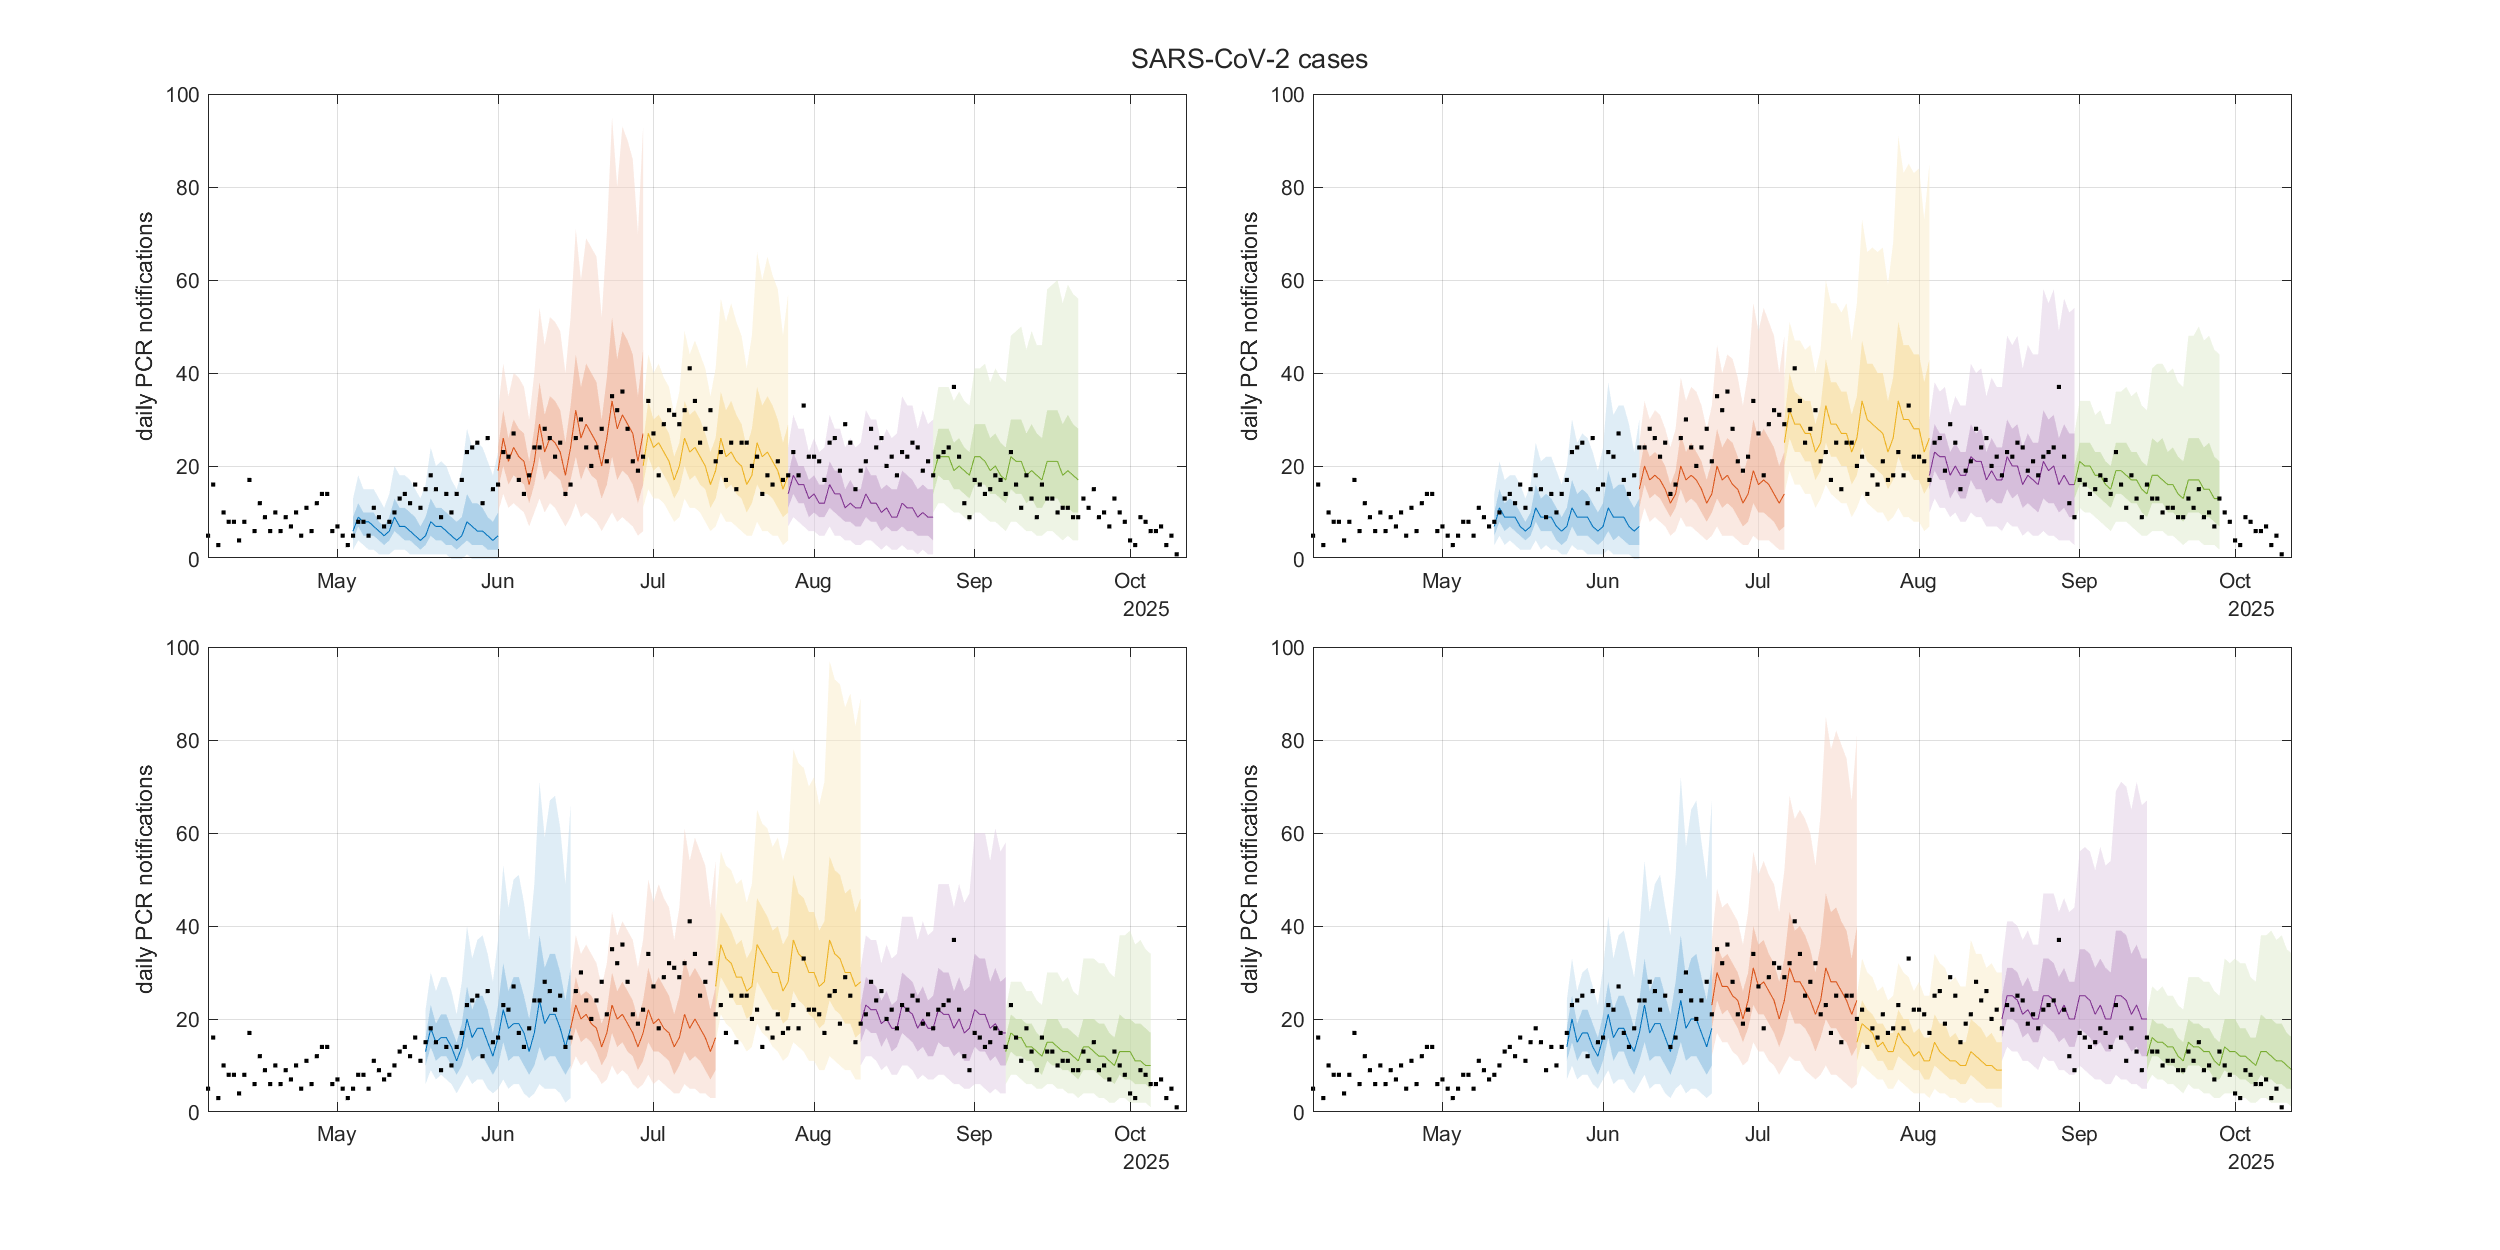
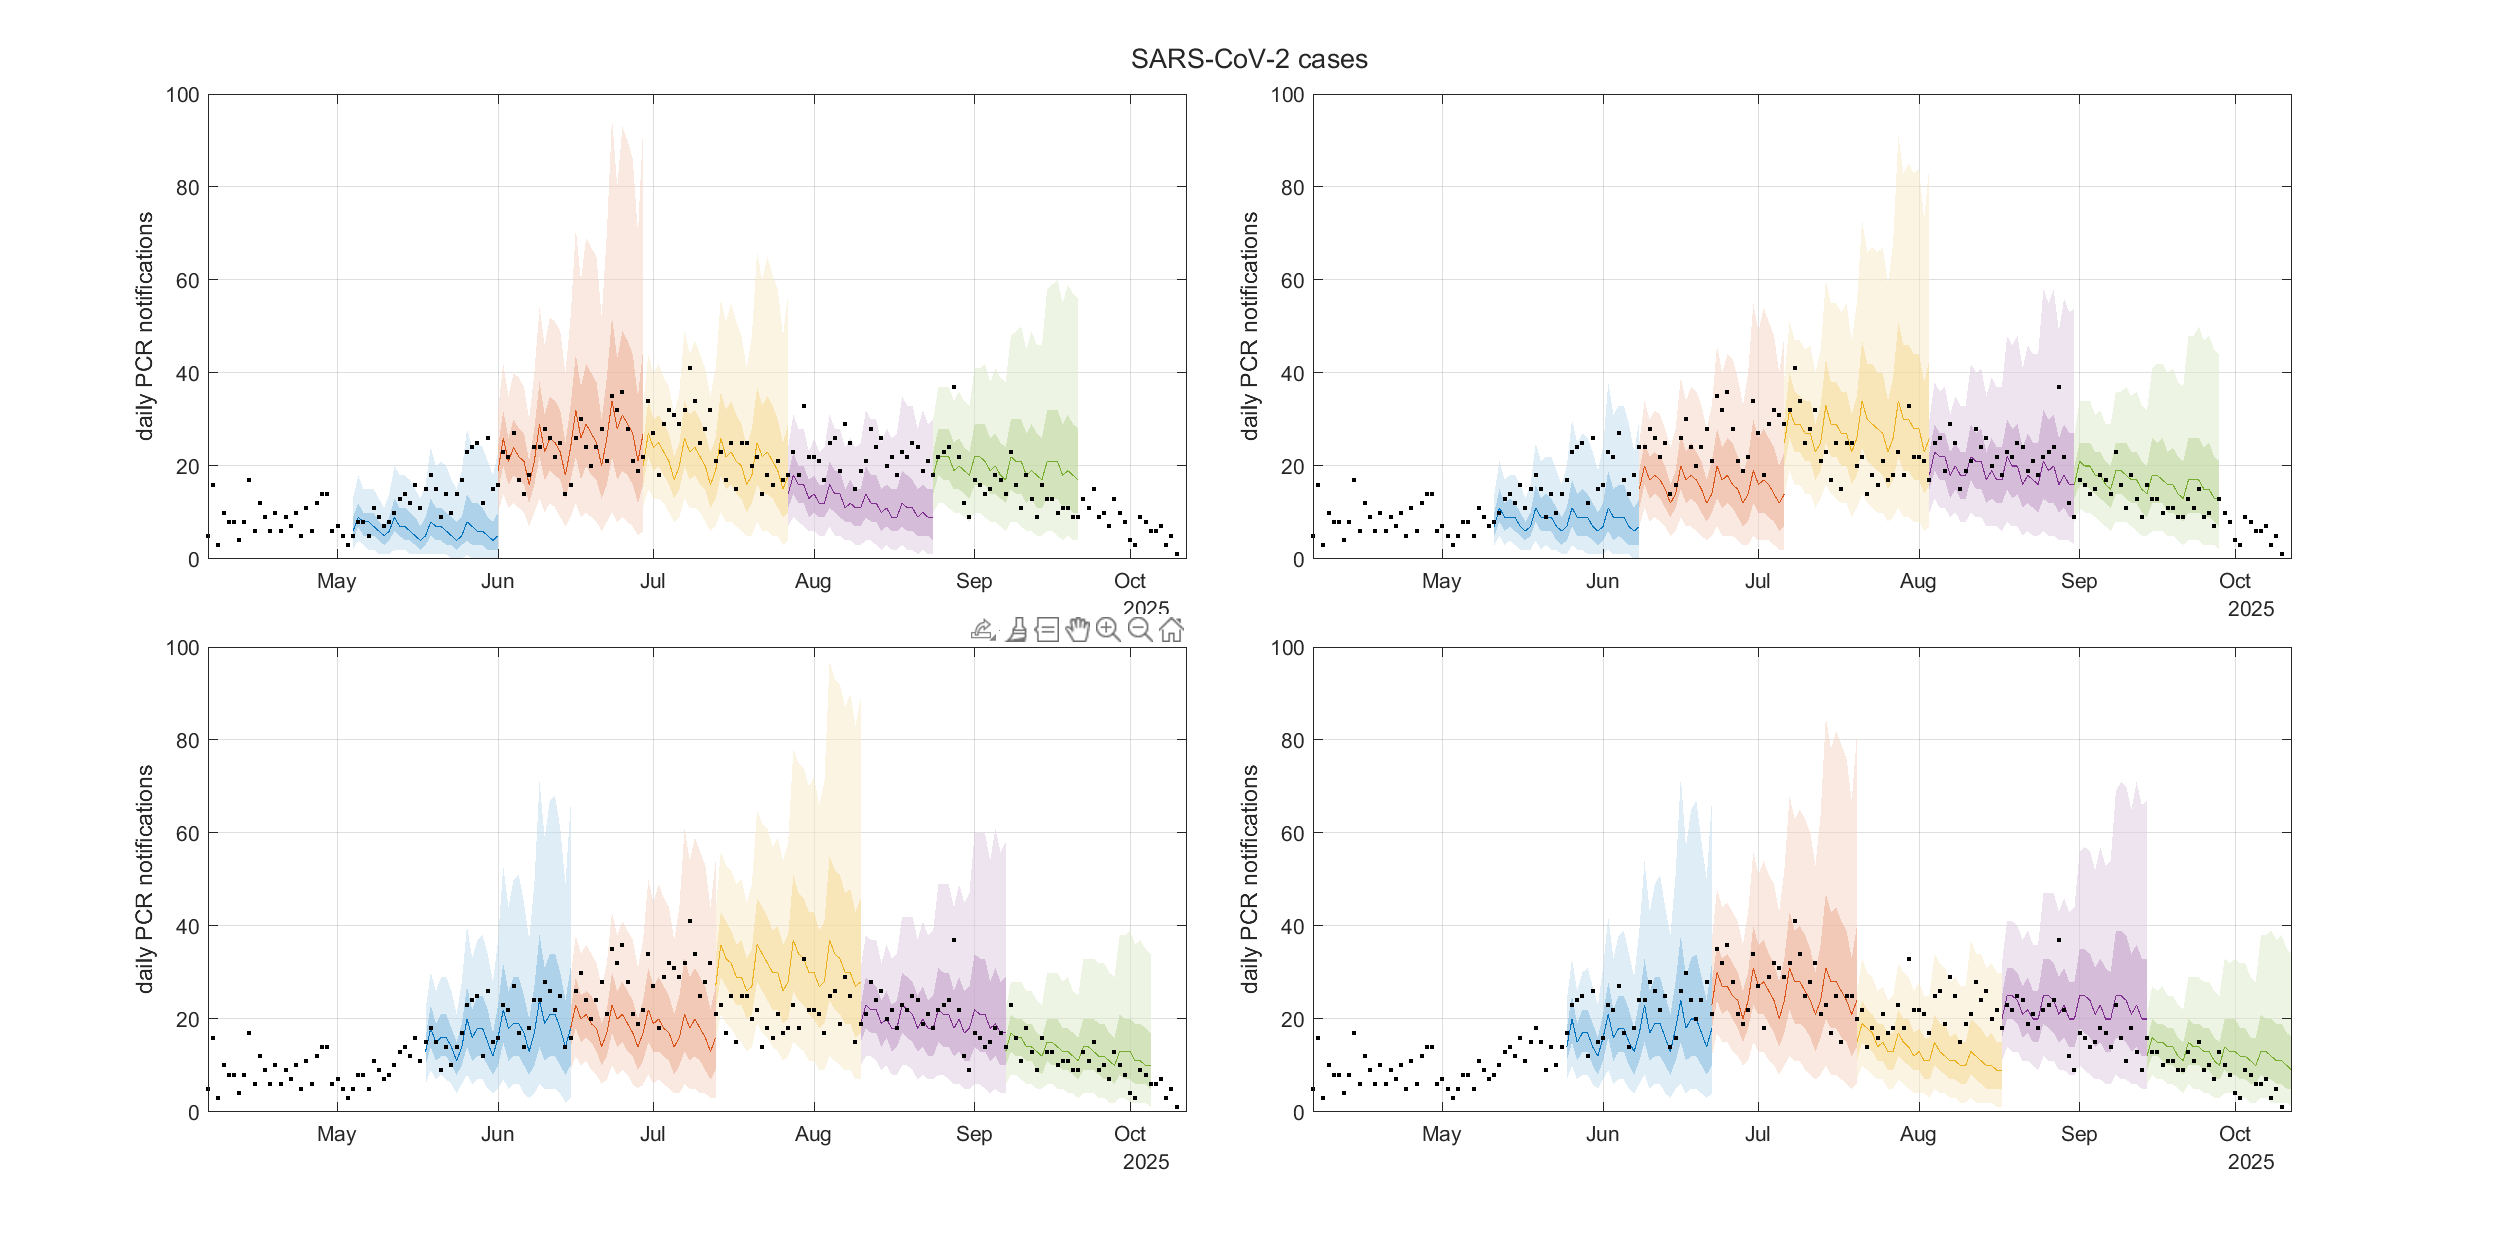
Added new multi-pathogen figure

Changed region(s): [[0.4056, 0.4992, 0.468, 0.5304], [0.2184, 0.3432, 0.2808, 0.3744], [0.624, 0.8112, 0.6552, 0.8424]]

diff --git a/forecasting_code/plotRetrosepctive.m b/forecasting_code/plotRetrosepctive.m
@@ -64,7 +64,7 @@ clrs = colororder;
 letters = ["(a)", "(b)", "(c)", "(d)"];
 
 
-% Set up mutli-pathogen figure
+% Set up mutli-pathogen figures
 h = figure(100);
 h.Position = [ 680   467   913   511];
 tiledlayout(2, 2, "TileSpacing", "compact");
@@ -309,20 +309,76 @@ for iPathogen = 1:nPathogens
     tScore = 1:par.timeHorizon;
 
     h = figure(100);
-    nexttile(iPathogen);
+    nexttile;
     plot(tScore, nanmean(scoreCases, 1), 'LineWidth', 2)
-    hold on
-    plot(tScore, nanmean(scoreHosp, 1), 'LineWidth', 2)
     ylim([0 0.65])
     grid on
     xlabel('time horizon (days)')
     ylabel('mean CRPS')
-    if ~all(all(isnan(scoreHosp)))
-        legend('cases', 'hospitalisations', 'location', 'southeast')
+    ttl = letters(iPathogen) + " " + pathogen_title;
+    if ~useHospAsCases
+        ttl = ttl + " case";
+    else
+        ttl = ttl + " hospitalisations";
     end
-    title(letters(iPathogen) + " " + pathogen_title);
+    title(ttl);
+    if ~useHospAsCases   
+        nexttile;
+        plot(tScore, nanmean(scoreHosp, 1), 'LineWidth', 2)
+        ylim([0 0.65])
+        grid on
+        xlabel('time horizon (days)')
+        ylabel('mean CRPS')
+        ttl = letters(iPathogen) + " " + pathogen_title + " hospitalisations";
+        title(ttl);
+    end
 end
 
 fName = "scores.png";
 saveas(h, fileNames.figureFolder+fName);
+
+
+% Create a separate figure with the first panel from each of Figures 1-4
+% Get panels to copy
+tl = get(figure(1), 'Children');
+ax1 = tl.Children;
+
+tl = get(figure(2), 'Children');
+ax2 = tl.Children;
+
+tl = get(figure(3), 'Children');
+ax3 = tl.Children;
+
+tl = get(figure(4), 'Children');
+ax4 = tl.Children;
+
+% Make new figure
+h = figure;
+h.Position = [ 50    50   1600   800];
+tl = tiledlayout(2, 2, "Tilespacing", "compact");
+
+% Placed copied panels in the relevant tile
+copyobj(ax4(4), tl);
+ax = tl.Children;
+ax(1).Layout.Tile = 4;
+copyobj(ax3(4), tl);
+ax = tl.Children;
+ax(1).Layout.Tile = 3;
+copyobj(ax2(4), tl);
+ax = tl.Children;
+ax(1).Layout.Tile = 2;
+copyobj(ax1(4), tl);
+
+nexttile(1);
+title('(a) SARS-CoV-2 cases')
+nexttile(2);
+title('(b) SARS-CoV-2 hospitalisations')
+nexttile(3);
+title('(c) influenza hospitalisations')
+nexttile(4);
+title('(d) RSV hospitalisations')
+
+fName = "forecasts_all_pathogens.png";
+saveas(h, fileNames.figureFolder+fName);
+
 
